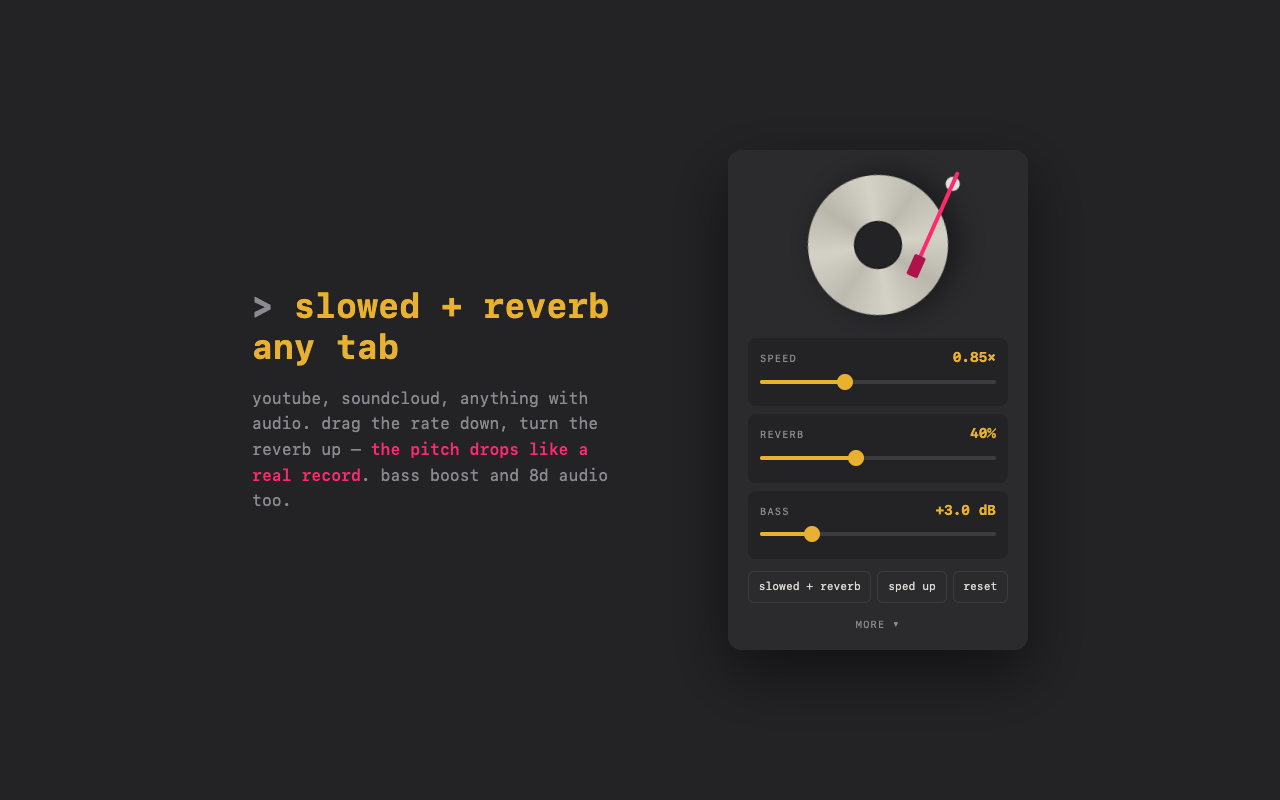
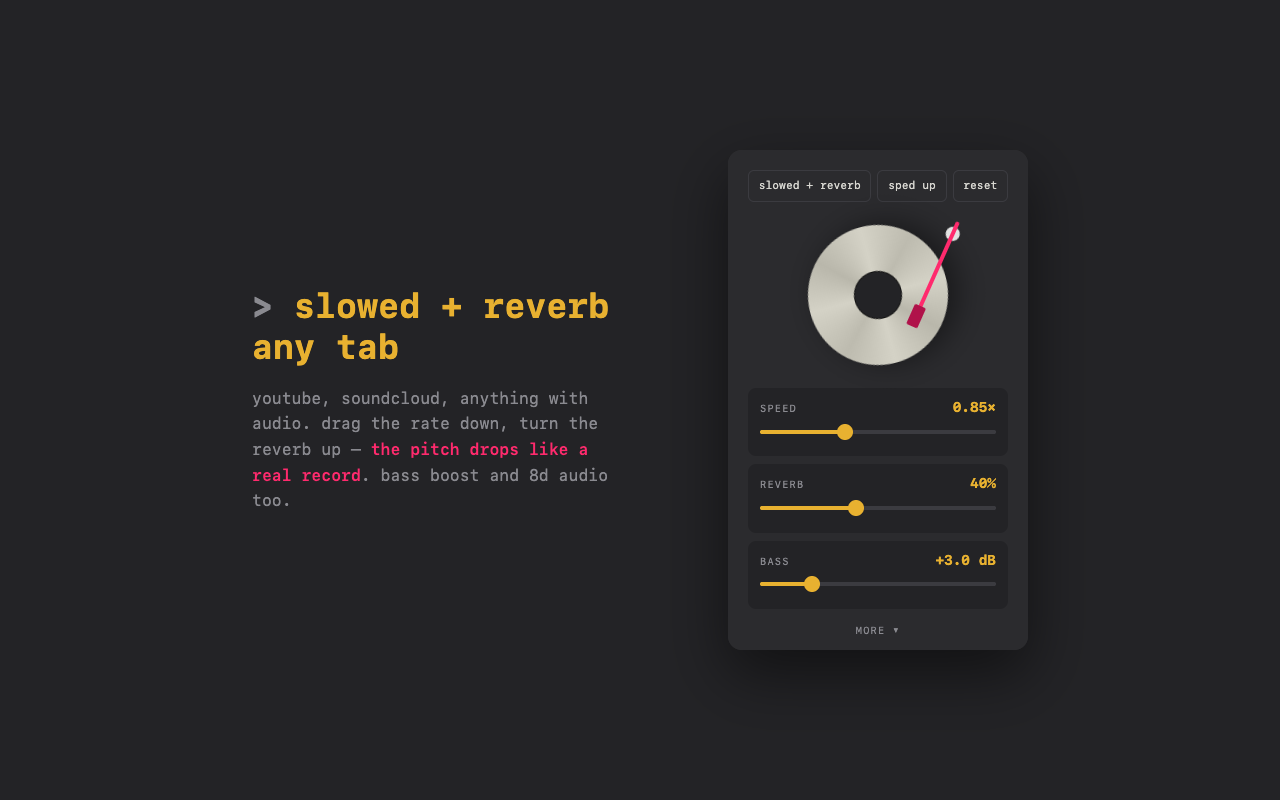
Move presets to the top of the popup

diff --git a/extension/popup.html b/extension/popup.html
@@ -7,6 +7,12 @@
 </head>
 <body>
   <main>
+    <div class="presets" id="presets">
+      <button type="button" data-preset="slowed">slowed + reverb</button>
+      <button type="button" data-preset="spedup">sped up</button>
+      <button type="button" data-preset="reset">reset</button>
+    </div>
+
     <section class="deck" aria-hidden="true">
       <div class="record" id="record"><div class="label"></div></div>
       <div class="arm" id="arm"><span class="pivot"></span><span class="rod"></span><span class="head"></span></div>
@@ -33,12 +39,6 @@
           <output id="bassOut" for="bass">+0.0 dB</output>
         </div>
         <input id="bass" type="range" min="0" max="15" step="0.5" value="0">
-      </div>
-
-      <div class="presets">
-        <button type="button" data-preset="slowed">slowed + reverb</button>
-        <button type="button" data-preset="spedup">sped up</button>
-        <button type="button" data-preset="reset">reset</button>
       </div>
 
       <button type="button" class="more" id="more" aria-expanded="false" aria-controls="extras">more ▾</button>

diff --git a/extension/popup.js b/extension/popup.js
@@ -143,6 +143,7 @@ $('more').addEventListener('click', function () {
     }, 1000);
   } catch (e) {
     controls.classList.add('disabled');
+    $('presets').classList.add('disabled');
     statusEl.textContent = "chrome doesn't allow extensions on this page";
   }
 })();

diff --git a/extension/popup.css b/extension/popup.css
@@ -163,8 +163,8 @@ input[type="range"]:focus-visible::-webkit-slider-thumb {
 .presets {
   display: flex;
   gap: 6px;
-  margin-top: 4px;
 }
+.presets.disabled { opacity: .35; pointer-events: none; }
 .presets button {
   flex: 1 1 auto;
   min-height: 32px;
